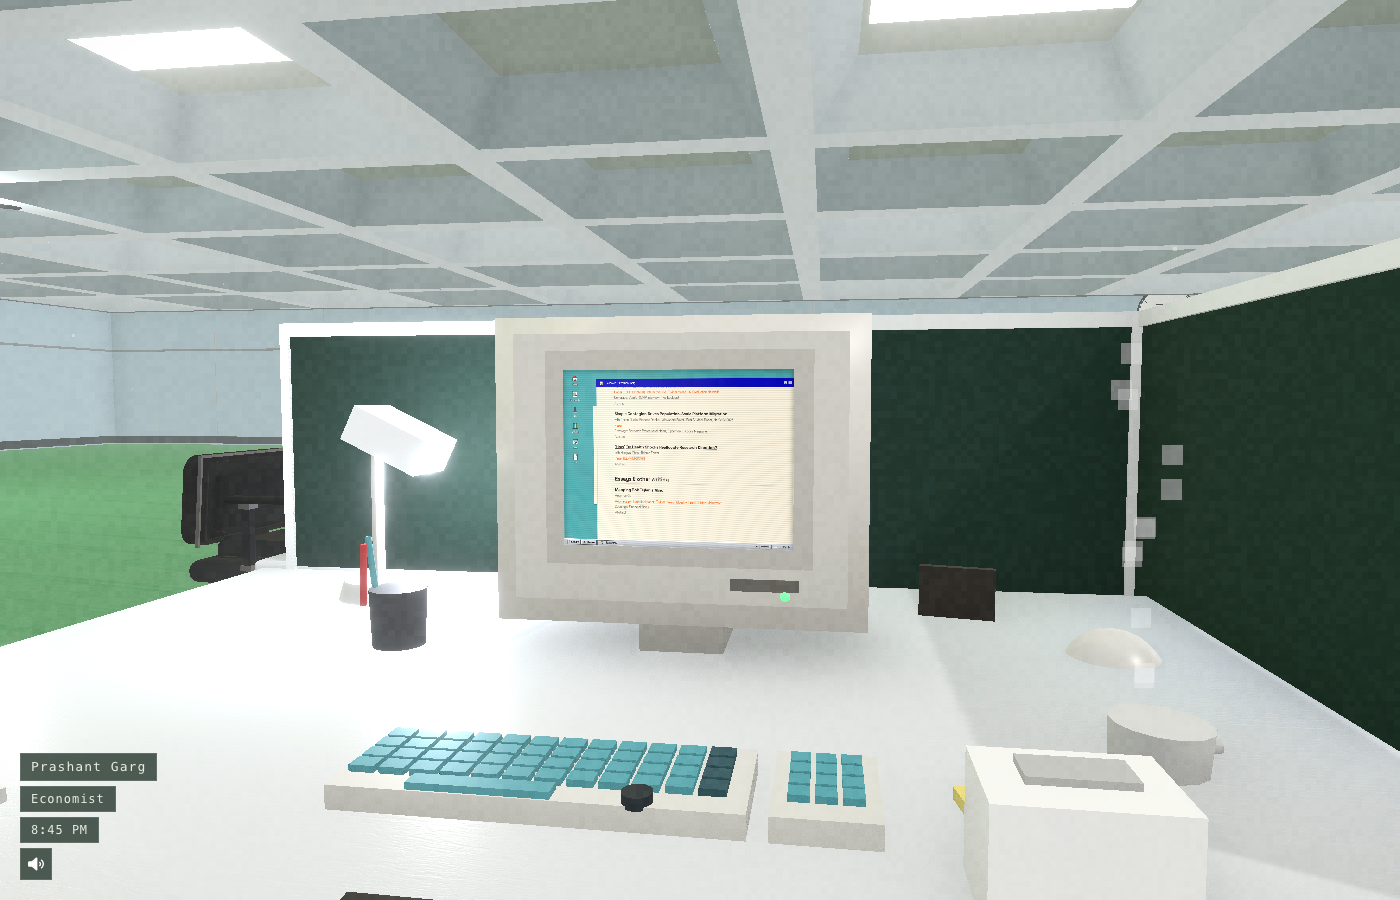
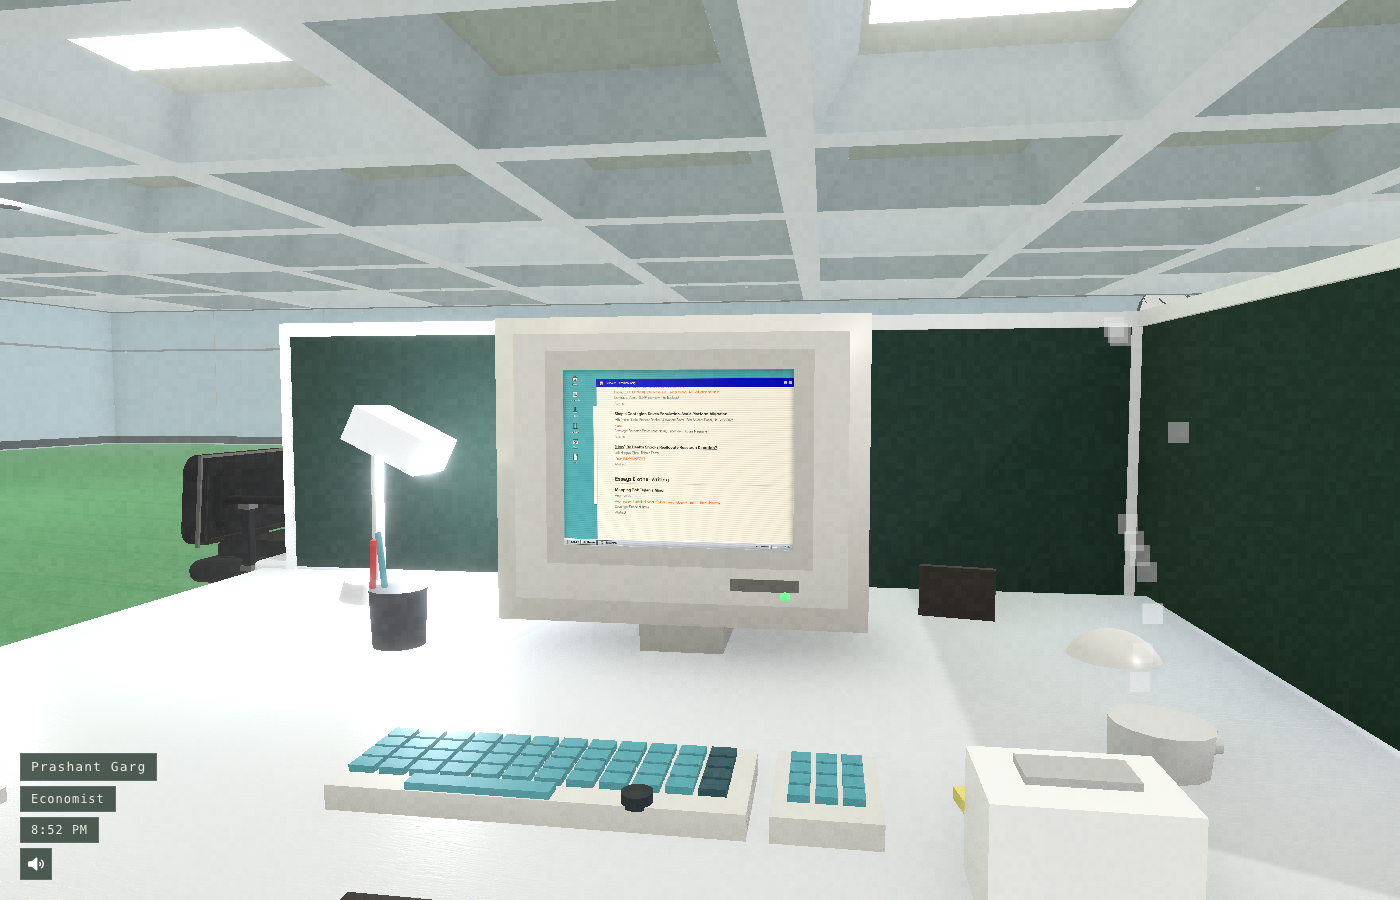
Lock desktop still, click-out-to-exit, thinner monitor, kill floor shimmer
- Composite desktop camera is now dead-still: removed the mouse-driven
  pan/roam that nudged the framing toward whichever screen edge the
  cursor approached (read as an unwanted zoom).
- Click anywhere in the room outside the monitor to step back to the
  office. The desktop is a same-origin iframe whose clicks never bubble
  to the parent, so any pointerdown reaching the canvas wrapper is an
  outside-the-screen click → handleDesktopClose.
- Thinner monitor frame: enlarged the screen plane 0.34→0.42 (iframe
  scale + projector corners follow) and slimmed both bezels so the
  cream surround is a slim ring, not a chunky border.
- Framed the monitor as an object in the room (cz 0.115→0.23, ~68% of
  the viewport) so there's a clickable room margin AND the slim bezel
  is visible. Still tunable via ?cz=.
- Killed the floor "flicker in various places": removed N8AO (SSAO
  crawls across the flat carpet as the camera moves); ContactShadows
  now bake once (frames=1). Bloom unchanged.
- Replaced the verbose top-right "Welcome to the workstation…" card
  with a single quiet "Click monitor to start" chip at bottom-centre,
  styled to match the bottom-left HUD name chip.

diff --git a/src/components/Office.tsx b/src/components/Office.tsx
@@ -13,7 +13,7 @@
 import { useEffect, useMemo, useRef, useState } from 'react';
 import { Canvas, useFrame, useThree } from '@react-three/fiber';
 import { PerspectiveCamera, ContactShadows, MeshReflectorMaterial, Environment, RoundedBox, useTexture, Html } from '@react-three/drei';
-import { EffectComposer, N8AO, Bloom } from '@react-three/postprocessing';
+import { EffectComposer, Bloom } from '@react-three/postprocessing';
 import * as THREE from 'three';
 import InnerDesktop from './InnerDesktop';
 
@@ -158,9 +158,14 @@ const CAM_MONITOR_TGT = MONITOR_WORLD.clone();
 // screen. Smaller = bigger screen / less room (sliver of bezel); larger =
 // more 'monitor in a room'. Tunable via ?cz= during the pilot.
 const _COMPOSITE_CZ = (() => {
-  if (typeof window === 'undefined') return 0.18;
+  if (typeof window === 'undefined') return 0.23;
   const v = parseFloat(new URLSearchParams(window.location.search).get('cz') || '');
-  return Number.isFinite(v) ? v : 0.115;  // zoom in: turquoise screen fills the frame (height-fit), thin bezel sliver
+  // Frame the monitor as an OBJECT IN THE ROOM (Henry-style) — screen ≈ 68% of
+  // the viewport with a clear room margin all around. The margin is what you
+  // click to step back out (see the wrapper onPointerDown), and it's where the
+  // now-slim bezel is visible. (Earlier this was 0.115 = screen fills the whole
+  // frame, but that left nothing outside the monitor to click.)
+  return Number.isFinite(v) ? v : 0.23;
 })();
 const CAM_COMPOSITE_POS = new THREE.Vector3(MONITOR_WORLD.x, MONITOR_WORLD.y + 0.02, DESK_Z + _COMPOSITE_CZ);
 const CAM_COMPOSITE_TGT = new THREE.Vector3(MONITOR_WORLD.x, MONITOR_WORLD.y + 0.02, MONITOR_WORLD.z);
@@ -535,10 +540,10 @@ const CARPET_FRAG = `
 function CrtScreenProjector() {
   const { camera, size } = useThree();
   // Screen plane lives at MONITOR_WORLD + local offset [0, 0.02, 0.207],
-  // size 0.34 × 0.26 (see CrtMonitor). Four corners in world space:
+  // size 0.42 × 0.321 (see CrtMonitor). Four corners in world space:
   const corners = useMemo(() => {
     const cx = MONITOR_WORLD.x, cy = MONITOR_WORLD.y + 0.02, cz = MONITOR_WORLD.z + 0.207;
-    const hw = 0.17, hh = 0.13;
+    const hw = 0.21, hh = 0.1605;
     return [
       new THREE.Vector3(cx - hw, cy - hh, cz),
       new THREE.Vector3(cx + hw, cy - hh, cz),
@@ -575,7 +580,6 @@ function CameraRig({ phase, onArrived, onEntryDone }: {
   const tgt    = useRef(CAM_ENTRY_TGT.clone());
   const fromPos = useRef(CAM_IDLE_POS.clone());
   const fromTgt = useRef(CAM_IDLE_TGT.clone());
-  const roamTarget = useRef(new THREE.Vector3());   // composite-desktop mouse-orbit target
   const startedAt       = useRef<number | null>(null);
   const entryStartTime  = useRef<number | null>(null);
   const arrivedFired    = useRef(false);
@@ -644,22 +648,13 @@ function CameraRig({ phase, onArrived, onEntryDone }: {
     }
     // ── on-monitor / booting / desktop ─────────────────────────────────────
     if (phase === 'on-monitor' || phase === 'booting' || phase === 'desktop') {
-      // COMPOSITE desktop: a VERY gentle PAN (not a skew). The earlier roam
-      // translated the camera while lookAt stayed locked, which rotated the
-      // screen plane in view = the "unstable rotating" the screen reads
-      // wrong. Now the target orbits with the camera (≈0.6×) so the move is
-      // a near-pure pan: the screen stays square + readable, just a hair of
-      // life. Heavily damped + slow-lerped so it settles (no AO shimmer).
-      if (COMPOSITE && phase === 'desktop') {
-        const ms = state.clock.elapsedTime * 1000;
-        const rx = mouse.current.x * 0.016 + Math.sin(ms * 0.00011) * 0.004;
-        const ry = mouse.current.y * 0.011 + Math.sin(ms * 0.00015 + 1.3) * 0.003;
-        roamTarget.current.set(endPos.x + rx, endPos.y - ry, endPos.z);
-        camera.position.lerp(roamTarget.current, 0.04);
-        tgt.current.lerp(new THREE.Vector3(endTgt.x + rx * 0.6, endTgt.y - ry * 0.6, endTgt.z), 0.05);
-        camera.lookAt(tgt.current);
-        return;
-      }
+      // COMPOSITE desktop: hold the camera DEAD STILL on the framed monitor.
+      // (We tried a gentle mouse-driven pan here, but hovering near a screen
+      // edge nudged the framing toward that edge — it read as an unwanted
+      // zoom/pan into the corner. The desktop must sit rock-steady so reading
+      // and the returning-visitor experience stay calm.) Plain damped lerp to
+      // the fixed framing; once it arrives the lerp converges and the view
+      // stops moving entirely — no mouse input, no drift.
       camera.position.lerp(endPos, 0.08);
       tgt.current.lerp(endTgt, 0.08);
       camera.lookAt(tgt.current);
@@ -915,15 +910,16 @@ function CrtMonitor({ phase, onClick }: { phase: Phase; onClick?: () => void }) 
           <meshStandardMaterial color="#6E6A62" roughness={0.6} />
         </mesh>
       ))}
-      {/* front BEZEL — chunky inset frame around the screen on the
-          full-size front face, gives the Lumon-prop chunky-front read. */}
-      <mesh position={[0, 0.005, 0.211]}>
-        <boxGeometry args={[0.50, 0.40, 0.006]} />
+      {/* front BEZEL — thin inset frame around the (now larger) screen on
+          the full-size front face. Reaches close to the body edge so the
+          cream surround reads as a slim frame, not a chunky border. */}
+      <mesh position={[0, 0.02, 0.211]}>
+        <boxGeometry args={[0.52, 0.40, 0.006]} />
         <meshStandardMaterial color="#E2DED6" roughness={0.55} />
       </mesh>
-      {/* inner bezel — slightly darker recess just around the screen */}
+      {/* inner bezel — slim darker recess hugging the screen edge */}
       <mesh position={[0, 0.020, 0.214]}>
-        <boxGeometry args={[0.40, 0.32, 0.004]} />
+        <boxGeometry args={[0.45, 0.35, 0.004]} />
         <meshStandardMaterial color="#CFCBC3" roughness={0.55} />
       </mesh>
       {/* small Lumon-style branding plate below screen, off-centre right */}
@@ -964,7 +960,7 @@ function CrtMonitor({ phase, onClick }: { phase: Phase; onClick?: () => void }) 
         }}
         onPointerLeave={() => { setHovered(false); document.body.style.cursor = 'default'; }}
       >
-        <planeGeometry args={[0.34, 0.26]} />
+        <planeGeometry args={[0.42, 0.321]} />
         <primitive object={crtMat} attach="material" />
       </mesh>
       {/* subtle screen glow light — teal/blue to match the new CRT colour */}
@@ -2283,6 +2279,7 @@ function OfficeScene({ phase, onMonitorClick }: {
           rectangle on the new bright green. */}
       <ContactShadows
         position={[0.3, 0.012, DESK_Z + 0.7]}
+        frames={1}
         opacity={0.45}
         scale={7.0}
         blur={3.2}
@@ -2396,7 +2393,10 @@ function OfficeScene({ phase, onMonitorClick }: {
              still hides it correctly via blending occlusion. */
           position={[MONITOR_WORLD.x, MONITOR_WORLD.y + 0.02, MONITOR_WORLD.z + 0.218]}
           rotation={[0, 0, 0]}
-          scale={0.0132}
+          /* scale calibrated so the 1040×795 iframe fills the screen plane
+             exactly. Screen grew 0.34→0.42 wide, so scale grows by the same
+             ratio: 0.0132 × (0.42/0.34) ≈ 0.0163. */
+          scale={0.0163}
           distanceFactor={undefined}
           zIndexRange={[100, 0]}
           pointerEvents="auto"
@@ -3322,89 +3322,42 @@ function HudOverlay({ muted, onMuteToggle }: { muted: boolean; onMuteToggle: () 
   );
 }
 
-/* ---------- tap hint -------------------------------------------------- */
+/* ---------- start hint ------------------------------------------------ */
 /**
- * First-visit welcome card. Shown ONCE per browser (localStorage
- * flag); fades in 4 s after entry, sits in the upper-right of the
- * scene with a brief explainer. Dismisses on click or after 14 s.
- * Heffer-style — gives visitors who land on the 3D scene cold a hint
- * about what to do.
+ * The only onboarding cue: a single quiet "Click monitor to start" chip
+ * pinned to the bottom-centre, styled to match the bottom-left HUD name
+ * chip (same dark-sage ground, cream mono type). It pulses gently so it
+ * reads as a call to action, and disappears on the first click. (Replaces
+ * the old verbose top-right "Welcome to the workstation…" card, which was
+ * too much to read.)
  */
-function FirstVisitWelcome() {
-  const KEY = 'pg_seen_welcome_v1';
-  const [show, setShow] = useState(false);
-  const [closing, setClosing] = useState(false);
-  useEffect(() => {
-    try {
-      if (localStorage.getItem(KEY) === '1') return;
-    } catch { /* ignore */ }
-    const t = setTimeout(() => setShow(true), 4000);
-    return () => clearTimeout(t);
-  }, []);
-  useEffect(() => {
-    if (!show) return;
-    const t = setTimeout(() => { setClosing(true); setTimeout(() => setShow(false), 400); }, 14000);
-    return () => clearTimeout(t);
-  }, [show]);
-  const dismiss = () => {
-    setClosing(true);
-    try { localStorage.setItem(KEY, '1'); } catch { /* ignore */ }
-    setTimeout(() => setShow(false), 400);
-  };
-  if (!show) return null;
-  return (
-    <div
-      onClick={dismiss}
-      style={{
-        position: 'fixed', top: '7%', right: '6%', maxWidth: 280,
-        padding: '12px 14px 10px',
-        background: 'rgba(31, 47, 39, 0.92)',
-        border: '1px solid rgba(199, 213, 195, 0.30)',
-        color: '#E8EEDF',
-        fontFamily: "ui-monospace,'SF Mono',Menlo,Consolas,monospace",
-        fontSize: 12, lineHeight: 1.5,
-        backdropFilter: 'blur(6px)' as any,
-        zIndex: 11, pointerEvents: 'auto', cursor: 'pointer',
-        boxShadow: '0 8px 24px rgba(0,0,0,0.45)',
-        opacity: closing ? 0 : 1,
-        transition: 'opacity 0.4s ease',
-        animation: closing ? 'none' : 'pg-welcome-in 0.5s cubic-bezier(0.16,1,0.3,1) both',
-      }}
-    >
-      <div style={{ fontSize: 10, opacity: 0.55, letterSpacing: '0.12em', marginBottom: 4 }}>
-        WELCOME
-      </div>
-      <div style={{ marginBottom: 6 }}>
-        Welcome to the workstation. {typeof window !== 'undefined' && window.matchMedia('(hover: none)').matches ? 'Tap' : 'Click'} the monitor to step inside and open the desktop. The objects on the desk respond to you.
-      </div>
-      <div style={{ fontSize: 10, opacity: 0.55, marginTop: 8, textAlign: 'right' }}>
-        {typeof window !== 'undefined' && window.matchMedia('(hover: none)').matches ? 'tap' : 'click'} to dismiss
-      </div>
-      <style>{`@keyframes pg-welcome-in { from { opacity: 0; transform: translateY(-6px); } to { opacity: 1; transform: translateY(0); } }`}</style>
-    </div>
-  );
-}
-
 function TapHint({ isTouch }: { isTouch: boolean }) {
-  // Touch users get the hint immediately; desktop users only after ~3 s
-  // of idle (visitors land on the corner-quarter view and might not
-  // realise the small CRT is the click target).
+  // Touch users get the cue immediately; desktop users after a short beat.
   const [visible, setVisible] = useState(isTouch);
   useEffect(() => {
-    let showT: any, hideT: any;
-    if (!isTouch) showT = setTimeout(() => setVisible(true), 3200);
-    hideT = setTimeout(() => setVisible(false), isTouch ? 4500 : 9000);
-    const off = () => { setVisible(false); clearTimeout(showT); clearTimeout(hideT); };
+    let showT: any;
+    if (!isTouch) showT = setTimeout(() => setVisible(true), 1400);
+    const off = () => { setVisible(false); clearTimeout(showT); };
     window.addEventListener('pointerdown', off, { once: true });
-    return () => { clearTimeout(showT); clearTimeout(hideT); window.removeEventListener('pointerdown', off); };
+    return () => { clearTimeout(showT); window.removeEventListener('pointerdown', off); };
   }, [isTouch]);
   if (!visible) return null;
-  const label = isTouch ? 'tap the monitor' : 'click the monitor';
+  const label = isTouch ? 'Tap monitor to start' : 'Click monitor to start';
   return (
-    <div style={{ position: 'fixed', bottom: '22%', left: 0, right: 0, display: 'flex', flexDirection: 'column', alignItems: 'center', gap: 6, pointerEvents: 'none', zIndex: 10 }}>
-      <div style={{ width: 44, height: 44, borderRadius: '50%', border: '1.5px solid rgba(164,217,197,0.55)', animation: 'tap-pulse 1.6s ease-out infinite' }} />
-      <span style={{ fontFamily: "ui-monospace,'SF Mono',Menlo,monospace", fontSize: 11, color: 'rgba(164,217,197,0.75)', letterSpacing: '0.08em', animation: 'tap-fade 1.6s ease-in-out infinite' }}>{label}</span>
-      <style>{`@keyframes tap-pulse{0%{transform:scale(0.85);opacity:0.7}60%{transform:scale(1.25);opacity:0.15}100%{transform:scale(0.85);opacity:0.7}}@keyframes tap-fade{0%,100%{opacity:0.5}50%{opacity:0.9}}`}</style>
+    <div style={{ position: 'fixed', bottom: 22, left: 0, right: 0, display: 'flex', justifyContent: 'center', pointerEvents: 'none', zIndex: 9 }}>
+      <div style={{
+        background: 'rgba(31, 47, 39, 0.78)',                              // same dark-sage as the HUD name chip
+        color: '#E8EEDF',
+        fontFamily: "ui-monospace,'SF Mono',Menlo,Consolas,monospace",
+        fontSize: 12, lineHeight: '18px',
+        padding: '5px 14px',
+        letterSpacing: '0.10em',
+        whiteSpace: 'nowrap',
+        border: '1px solid rgba(199, 213, 195, 0.18)',
+        backdropFilter: 'blur(4px)' as any,
+        animation: 'pg-hint-pulse 2.2s ease-in-out infinite',
+      }}>{label}</div>
+      <style>{`@keyframes pg-hint-pulse{0%,100%{opacity:0.62}50%{opacity:1}}`}</style>
     </div>
   );
 }
@@ -3535,7 +3488,17 @@ export default function Office() {
           DIM the 3D scene to ~30 % brightness so the bright teal/cream
           desktop window doesn't fight the green carpet/cubicle bezel
           showing around its edges — keeps the eye on the inner site. */}
-      {mount3d && <div style={{
+      {mount3d && <div
+        onPointerDown={() => {
+          // COMPOSITE desktop: clicking the room AROUND the monitor steps back
+          // out to the office. The composited desktop is a same-origin <iframe>
+          // whose clicks fire inside its OWN document and never reach the parent
+          // — so any pointerdown that bubbles up to this wrapper is, by
+          // construction, a click outside the screen (canvas / drei container /
+          // 3D room). That makes "click outside the monitor → exit" a one-liner.
+          if (COMPOSITE && phase === 'desktop') handleDesktopClose();
+        }}
+        style={{
         position: 'absolute', inset: 0,
         // The overlay desktop dims the room to ~30% so the bright HTML
         // window doesn't fight the scene behind it. In COMPOSITE mode the
@@ -3558,16 +3521,17 @@ export default function Office() {
           <CameraRig phase={phase} onArrived={handleArrived} onEntryDone={handleEntryDone} />
           <CrtScreenProjector />
           <OfficeScene phase={phase} onMonitorClick={handleClick} />
-          {/* Post-processing: N8AO for ambient occlusion (grime in corners
-              where geometry meets), Bloom for soft halo around the CRT
-              + bright ceiling panels. */}
-          <EffectComposer multisampling={0} disableNormalPass={false}>
-            <N8AO aoRadius={0.5} intensity={1.4} aoSamples={16} denoiseSamples={4} color="black" />
+          {/* Post-processing: Bloom only. N8AO (screen-space AO) was the
+              source of the floor "flicker in various places" — as the camera
+              parallaxes/breathes, the denoised SSAO samples crawl across the
+              big flat carpet and shimmer. The room is evenly/clinically lit
+              and the ceiling coffers already carry baked vertex-AO, so dropping
+              SSAO costs almost nothing visually and kills the shimmer. With no
+              AO pass we no longer need the normal pass either. */}
+          <EffectComposer multisampling={0} disableNormalPass={true}>
             {/* Stronger bloom — Severance MDR is shot bright/overexposed,
-                ceiling panels glow into the surrounding cells. */}
-            {/* G2 pass-2: with the big shallow panels the old threshold
-                bloomed the whole upper frame into fog — tighter threshold +
-                lower intensity keeps the glow ON the panels. */}
+                ceiling panels glow into the surrounding cells. Tight threshold
+                + low intensity keeps the glow ON the panels, not the frame. */}
             <Bloom intensity={0.26} luminanceThreshold={0.96} luminanceSmoothing={0.45} mipmapBlur />
           </EffectComposer>
         </Canvas>
@@ -3584,7 +3548,6 @@ export default function Office() {
         <HudOverlay muted={muted} onMuteToggle={() => setMuted(m => !m)} />
       )}
       {(phase === 'idle' || phase === 'entering') && <TapHint isTouch={isTouch} />}
-      {phase === 'idle' && <FirstVisitWelcome />}
       {phase === 'splash'  && <BiosScreen onDone={handleBiosDone} />}
       {phase === 'booting' && <BootOverlay onDone={handleBootDone} />}
       {phase === 'desktop' && !COMPOSITE && <InnerDesktop onClose={handleDesktopClose} embedded />}
